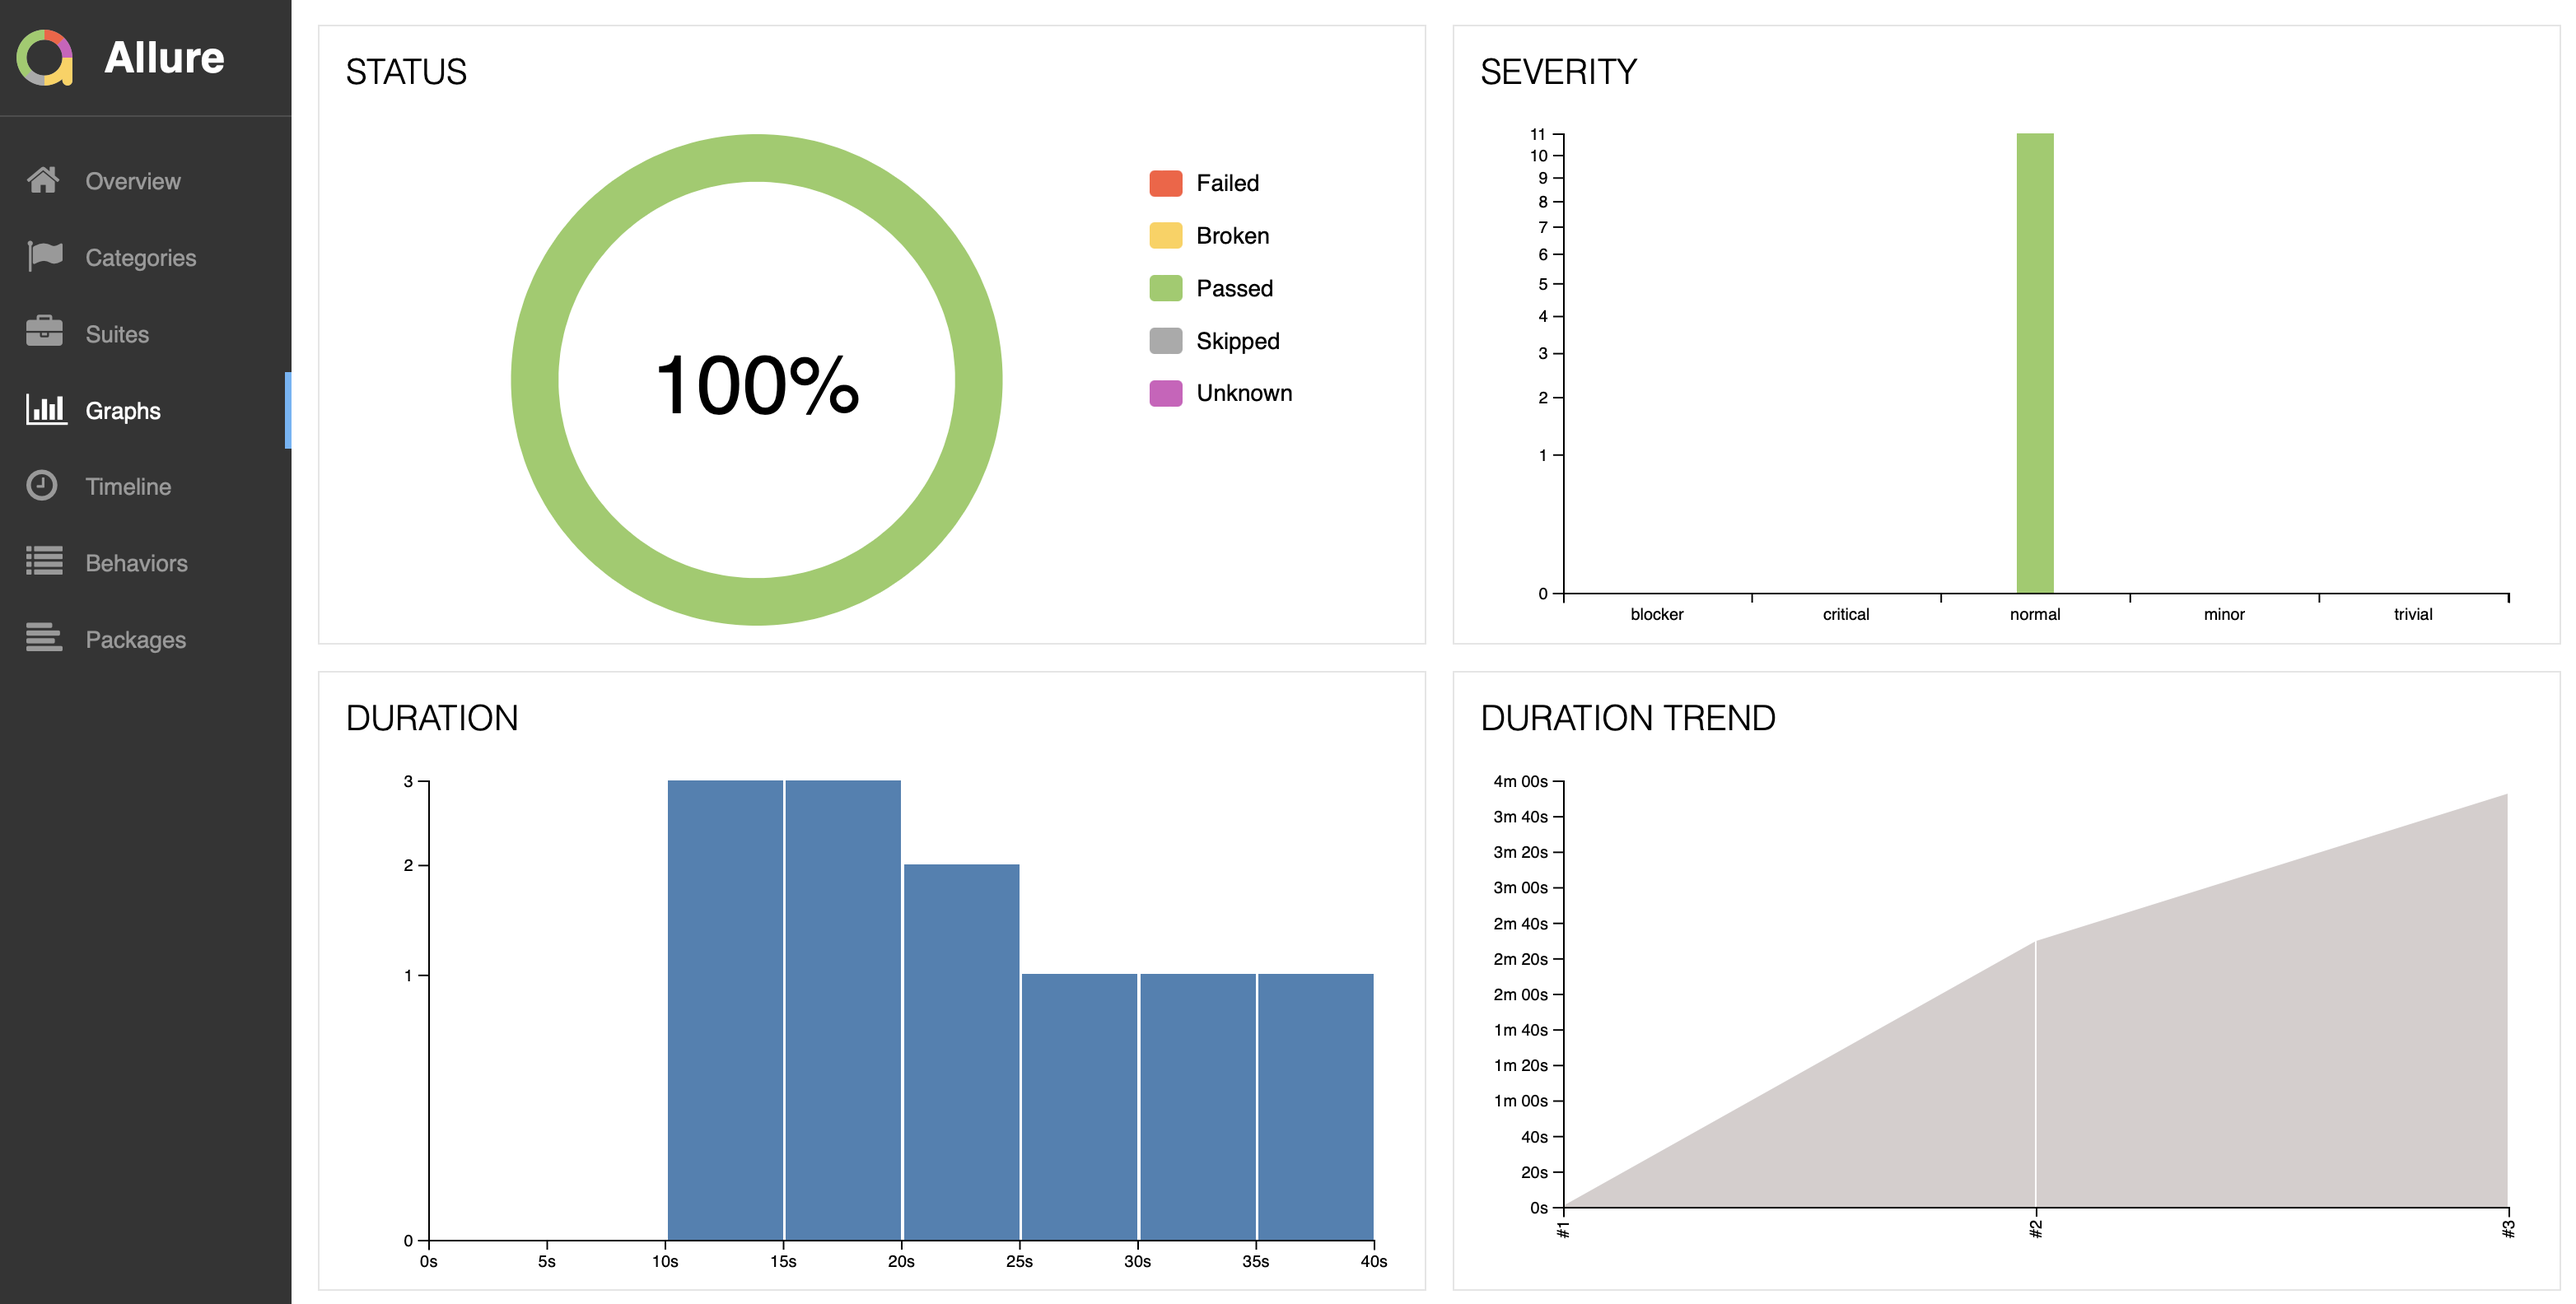
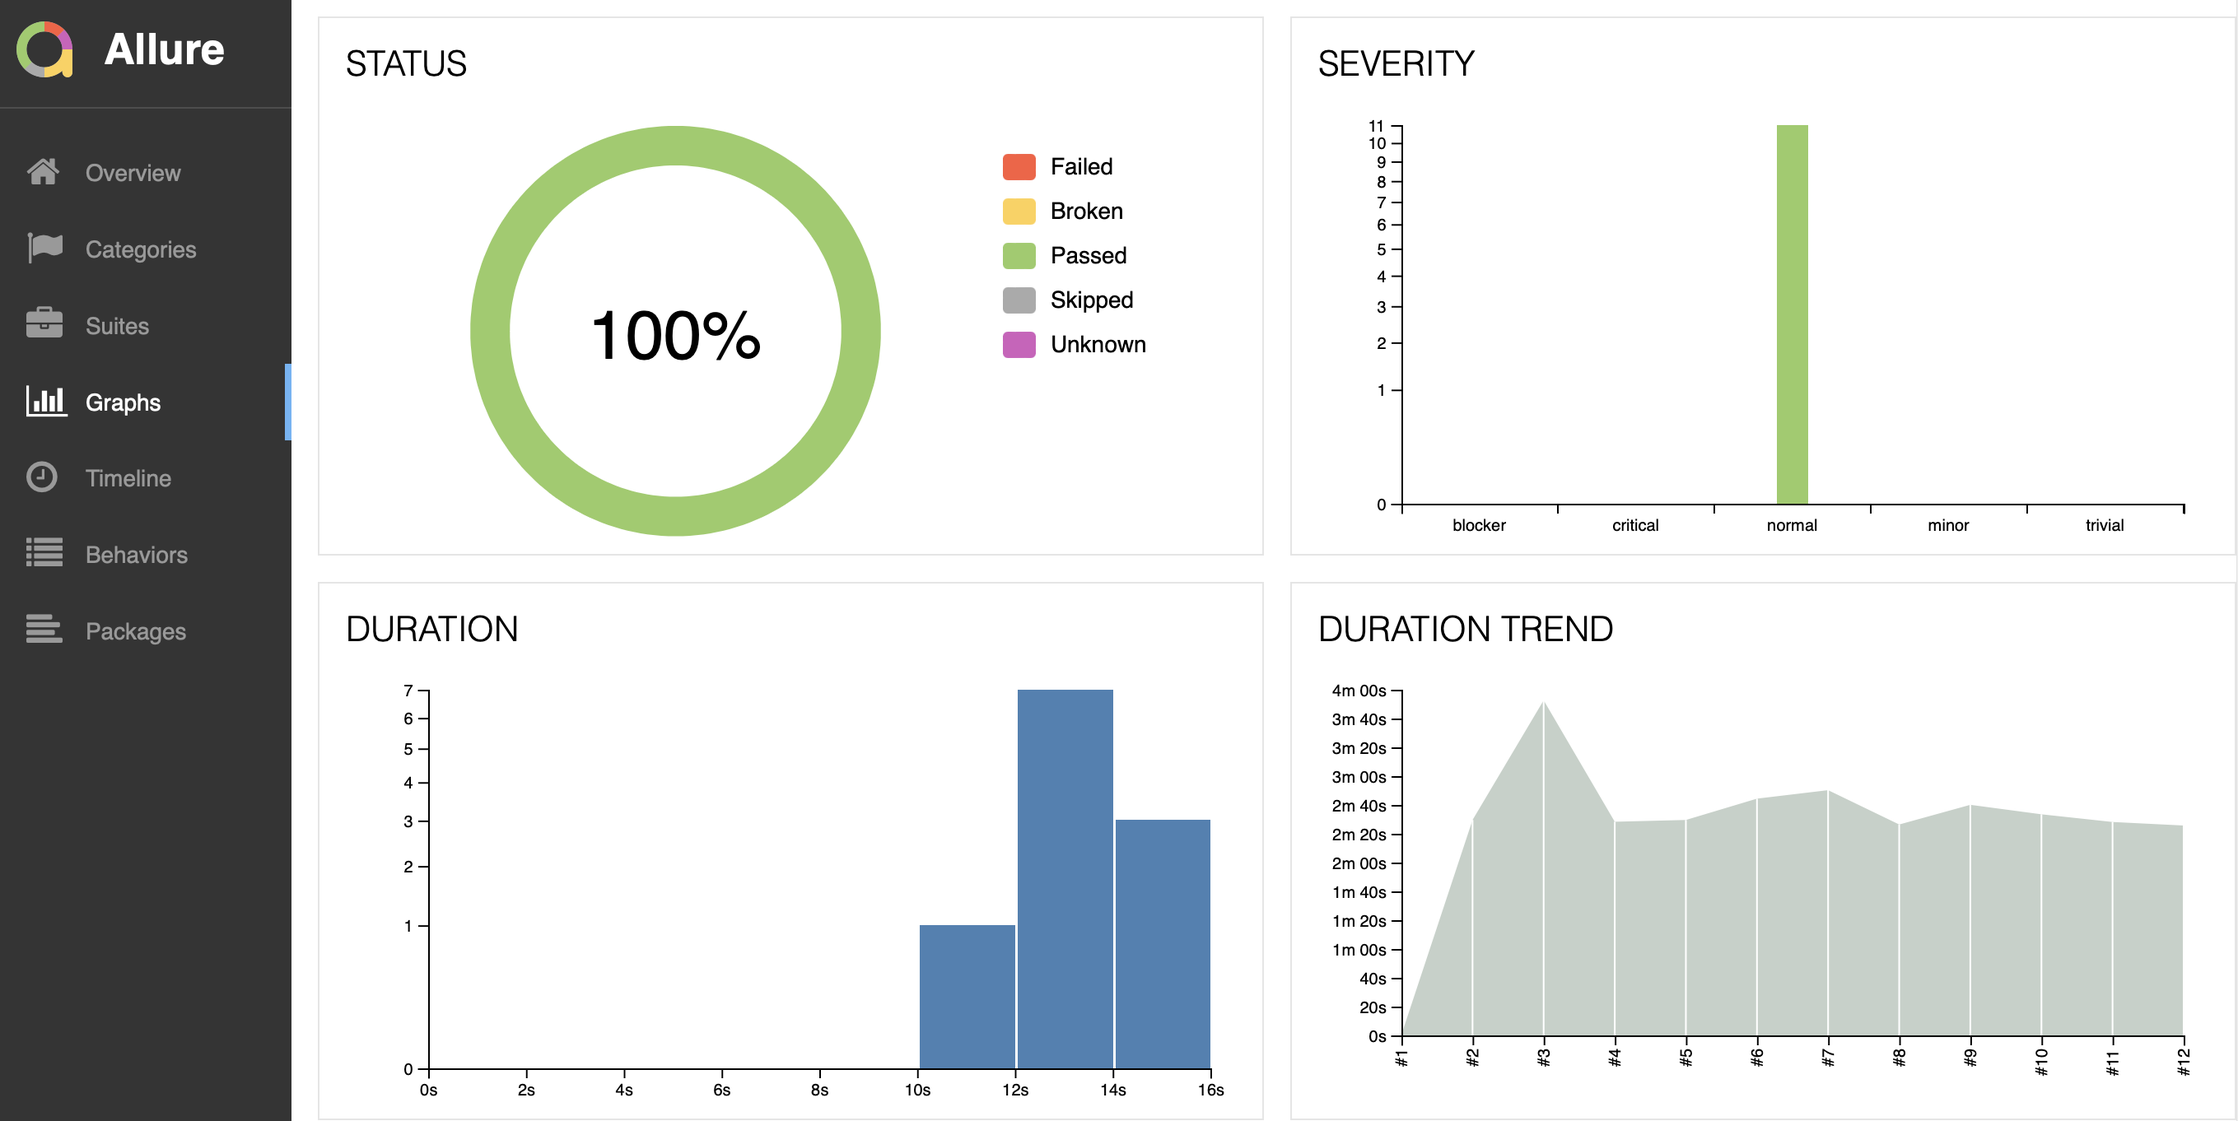
updated readme and images

diff --git a/README.md b/README.md
@@ -9,7 +9,7 @@
 * <a href="#allure">Отчеты в Allure</a>
 * <a href="#testops">Интеграция с Allure TestOps</a>
 * <a href="#testops">Интеграция с Jira</a>
-* <a href="#telegram">Уведомления в Telegram с использованием бота</a>
+* <a href="#telegram">Уведомления в Telegram и Slack с использованием бота</a>
 * <a href="#video">Пример прогона теста в Selenoid</a>
 
 <a id="tools"></a>
@@ -101,7 +101,7 @@ clean web_test
 </p>
 
 <a id="allure"></a>
-## Отчеты в <a target="_blank" href="https://jenkins.autotests.cloud/job/017_Guzel_Uz_web_fitmost_tests/2/allure"> Allure report </a>
+## Отчеты в <a target="_blank" href="https://jenkins.autotests.cloud/job/017_Guzel_Uz_web_fitmost_tests/12/allure/"> Allure report </a>
 
 ### Основное окно
 
